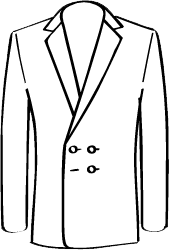
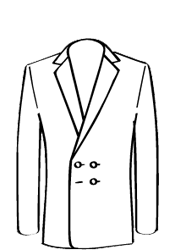
Options complete, just have to add more images from hockerty

Changed region(s): [[0.0, 0.0, 1.0, 1.0]]

diff --git a/src/app/static/configurator/configurator.component.ts b/src/app/static/configurator/configurator.component.ts
@@ -11,15 +11,49 @@ import { ANIMATE_ON_ROUTE_ENTER } from '@app/core';
 export class ConfiguratorComponent{
   animateOnRouteEnter = ANIMATE_ON_ROUTE_ENTER;
   Styles = [{
-    name: 'Jacket & Pants',
+    name: 'Jacket & Pants', 
     url : './assets/fabrics.png'
   },{
     name: 'Body Lining',
     url : './assets/lining.png'
+  }]; //Sleeve lining not visible on visualizer so its not in POC
+
+  Options = [{
+    name: 'Lapel',
+    url : './assets/visual/notch.jpg'
+  },{
+    name: 'Coat Fit', //slim or executive
+    url : './assets/visual/slim_coat.jpg'
+  },{
+    name: 'Coat Type', //Single or double 
+    url : './assets/single_2.png'
+  },{
+    name: 'Pant Fit', //slim
+    url : './assets/pants_slim.png'
+  },{
+    name: 'Pant Type', // double pleat
+    url : './assets/pants_flat.png'
+  }];
+
+  Upgrades = [{
+    name: 'Lapel Stiching',
+    url : './assets/fabrics.png'
+  },{
+    name: 'Slanted Pockets', //slim or executive
+    url : './assets/visual/slim_fit_coat.jpg'
+  },{
+    name: 'Functional Button Holes', //Single or double 
+    url : './assets/lining.png'
+  },{
+    name: 'Ticket Pocket', //slim
+    url : './assets/lining.png'
+  },{
+    name: 'Pant Type', // double pleat
+    url : './assets/lining.png'
   }];
 
   toggleJacket() {
-    this.visible = !this.visible;
+    this.showJacket = !this.showJacket;
     this.inside = false;
   }
 
@@ -30,6 +64,13 @@ export class ConfiguratorComponent{
 
   showFabrics() {
     this.showFabricSection = !this.showFabricSection;
+    this.showOptionSection = false;
+    this.DrawerItems = [];
+  }
+
+  showOptions() {
+    this.showOptionSection = !this.showOptionSection;
+    this.showFabricSection = false;
     this.DrawerItems = [];
   }
 
@@ -66,7 +107,70 @@ export class ConfiguratorComponent{
         code : '5030372',
         url  : './assets/visual/navy.jpg'
       }];
-    } 
+    } else if (str === 'lapel'){
+      this.hideModel = true;
+      this.DrawerItems = [{
+        name : 'Notch',
+        code : '',
+        url  : './assets/visual/notch.jpg'
+      },{
+        name : 'Peak',
+        code : '',
+        url  : './assets/visual/peak.jpg'
+      }];
+    } else if (str === 'coat fit'){
+      this.hideModel = true;
+      this.DrawerItems = [{
+        name : 'Extreme Slim',
+        code : '',
+        url  : './assets/visual/extreme_slim_coat.jpg'
+      },{
+        name : 'Slim',
+        code : '',
+        url  : './assets/visual/slim_coat.jpg'
+      },{
+        name : 'Executive',
+        code : '',
+        url  : './assets/visual/executive_coat.jpg'
+      }];
+    }else if (str === 'coat type'){
+      this.hideModel = true;
+      this.DrawerItems = [{
+        name : 'Single',
+        code : '',
+        url  : './assets/single_2.png'
+      },{
+        name : 'Double Breasted',
+        code : '',
+        url  : './assets/double_2.png'
+      }];
+    }else if (str === 'pant fit'){
+      this.hideModel = true;
+      this.DrawerItems = [{
+        name : 'Single',
+        code : '',
+        url  : './assets/pants_regular.png'
+      },{
+        name : 'Double Breasted',
+        code : '',
+        url  : './assets/pants_slim.png'
+      }];
+    }else if (str === 'pant type'){
+      this.hideModel = true;
+      this.DrawerItems = [{
+        name : 'Flat Front',
+        code : '',
+        url  : './assets/pants_flat.png'
+      },{
+        name : 'Single Pleat',
+        code : '',
+        url  : './assets/pants_single.jpg'
+      },{
+        name : 'Double Pleat',
+        code : '',
+        url  : './assets/pants_double.jpg'
+      }];
+    }
      
     this.DrawerItemType = string;
 
@@ -94,7 +198,7 @@ export class ConfiguratorComponent{
     } else if (type === 'body lining'){
       this.inside = true;
       this.showModel = false;
-      this.visible = true;
+      this.showJacket = true;
       this.liningTopUrl = '../../../assets/visual/lining_top_'+value+'.png';
       this.liningBottomUrl = '../../../assets/visual/lining_bottom_'+value+'.png';
     }
@@ -102,12 +206,13 @@ export class ConfiguratorComponent{
   }
 
   constructor() {
-    this.visible = true;
+    this.showJacket = true;
     this.inside = false;
     this.drawerClass = '';
     this.DrawerItemType = '';
     this.DrawerItems = [];
-    this.showFabricSection = true;
+    this.showFabricSection = false;
+    this.showOptionSection = true;
     this.showVest = true;
     //for view of body lining
     this.showModel = true;

diff --git a/src/app/static/configurator/configurator.component.html b/src/app/static/configurator/configurator.component.html
@@ -7,8 +7,24 @@
     </div>
   </div>
   <!-- Fabrics Icons -->
-
   <div class="justify-content-md-center fabrics style" *ngFor="let item of Styles;" [ngClass]="{open : showFabricSection}">
+    <div class="col" (click)="PopulateDrawer(item.name)">
+      <a target="_blank" rel="noopener" class="style-label" >
+        <img src= {{item.url}} />
+        <p>{{item.name}}</p>
+      </a>
+    </div>
+  </div>
+
+
+  <!-- Options Heading -->
+  <div class="justify-content-md-center" style="height:30px;">
+    <div class="style heading" (click)="showOptions()">
+      <p>Options</p>
+    </div>
+  </div>
+  <!-- Options Icons -->
+  <div class="justify-content-md-center fabrics style" *ngFor="let item of Options;" [ngClass]="{open : showOptionSection}">
     <div class="col" (click)="PopulateDrawer(item.name)">
       <a target="_blank" rel="noopener" class="style-label" >
         <img src= {{item.url}} />
@@ -39,14 +55,14 @@
   <div id="visualizer" class="visualizer">
 
     <img id="model" src="../../../assets/visual/model.png" [hidden]="!showModel"/>
-    <img id="shirt" src="../../../assets/visual/shirt.png" [style.visibility]="(!inside && visible) ? 'visible' : 'hidden' " [ngClass]="{zoom : inside}"/>
-    <img id="full_shirt" src="../../../assets/visual/full_shirt.png" [style.visibility]="(!inside && !visible) ? 'visible' : 'hidden' "  [ngClass]="{zoom : inside}"/>
+    <img id="shirt" src="../../../assets/visual/shirt.png" [style.visibility]="(!inside && showJacket) ? 'visible' : 'hidden' " [ngClass]="{zoom : inside}"/>
+    <img id="full_shirt" src="../../../assets/visual/full_shirt.png" [style.visibility]="(!inside && !showJacket) ? 'visible' : 'hidden' "  [ngClass]="{zoom : inside}"/>
     <img id="tie" src="../../../assets/visual/tie.png" [hidden]="inside"/>
     <img id="vestTop" src="{{vestTop}}" [hidden]="!showVest" [ngClass]="{zoom : inside}"/>
     <img id="vestBottom" src="{{vestBottom}}" [hidden]="!showVest"/>
-    <img id="jacket" src="{{jacketUrl}}" [hidden]="!visible" [ngClass]="{zoom : inside}"/>
-    <img id="sleeves" src="{{sleevesUrl}}" [hidden]="!visible" [ngClass]="{zoom : inside}" />
-    <img id="jacket-bottom" src="{{jacketBottomUrl}}" [hidden]="!visible"  [ngClass]="{zoom : inside}"/>
+    <img id="jacket" src="{{jacketUrl}}" [hidden]="!showJacket" [ngClass]="{zoom : inside}"/>
+    <img id="sleeves" src="{{sleevesUrl}}" [hidden]="!showJacket" [ngClass]="{zoom : inside}" />
+    <img id="jacket-bottom" src="{{jacketBottomUrl}}" [hidden]="!showJacket"  [ngClass]="{zoom : inside}"/>
     <img id="pants" src="{{pantsUrl}}" [hidden]="inside" /> 
     <img id="belt" src="{{beltUrl}}" [hidden]="inside" /> 
     <img id="shoes" src="../../../assets/visual/shoes.png" [hidden]="inside"  /><!-- lining pictures -->
@@ -58,6 +74,6 @@
 
 
 <div id="toggle-controls">
-  <div class="jacket-toggle" [ngClass]="{'off': !visible}" (click)="toggleJacket()" > </div>
+  <div class="jacket-toggle" [ngClass]="{'off': !showJacket}" (click)="toggleJacket()" > </div>
   <div class="vest-toggle" [ngClass]="{'off': !showVest}" (click)="toggleVest()" > </div>
 </div>

diff --git a/src/app/static/configurator/configurator.component.scss b/src/app/static/configurator/configurator.component.scss
@@ -241,12 +241,14 @@ h2{
 .style-dock {
   background: white;
   z-index: 5;
+  box-shadow: 2px 2px 4px #aaa;
 
   img {
     max-width: 80%;
     margin: 0 auto;
+    max-height: 80px;
   }
-  .fabrics {
+  .fabrics, .options {
     &.open{
       max-height: 150px;
     }
@@ -254,20 +256,31 @@ h2{
     transition: .5s max-height linear;
     max-height: 0px;
   }
+  .options {
+    &.open{
+      max-height: 250px;
+    }
+    border-top: 0px;
+    transition: .5s max-height linear;
+    max-height: 0px;
+  }
+
   .style.heading {
     width: 100% !important;
     color: black !important;
     min-height: 30px;
-    border-bottom: 0px !important;
+    border-bottom: 1px solid black !important;
   }
   .style{
-    border: 1px solid black;
+    &.open{
+      border-bottom: 1px solid black;
+    }
     border-bottom:0px;
     text-align: center;
     overflow: hidden;
-    &:last-child{
-      border-bottom: 1px solid black;
-    }
+    // &:last-child{
+    //   border-bottom: 1px solid black;
+    // }
     .style-label {
       color: black;
       font-size: 10px;
@@ -328,7 +341,7 @@ h2{
     height:45%;
     top: 65px;
     left: 0px;
-    transition: .5s all ease-in;
+    transition: .5s height ease-in;
     &.zoom {
       height: 65% !important;
       left: -60px;
@@ -397,10 +410,19 @@ h2{
   transition: .5s all linear;
   color: black;
   background: white;
+  top: 65px !important;
+  width: 90px;
+  .col{
+    border-right: 1px solid black;
+    padding-right: 0px;
+    border-bottom: 1px solid black;
+  }
   img, span {
     display: block;
     max-width: 99px;
     text-align: center;
+    max-height: 95px;
+    margin: auto;
   }
   .swatch-code {
     font-size: 9px;
@@ -409,7 +431,7 @@ h2{
     font-size: 11px;
   }
   &.showDrawer {
-    left: 100px !important;
+    left: 101px !important;
   }
   .style.heading{
     color: black;
